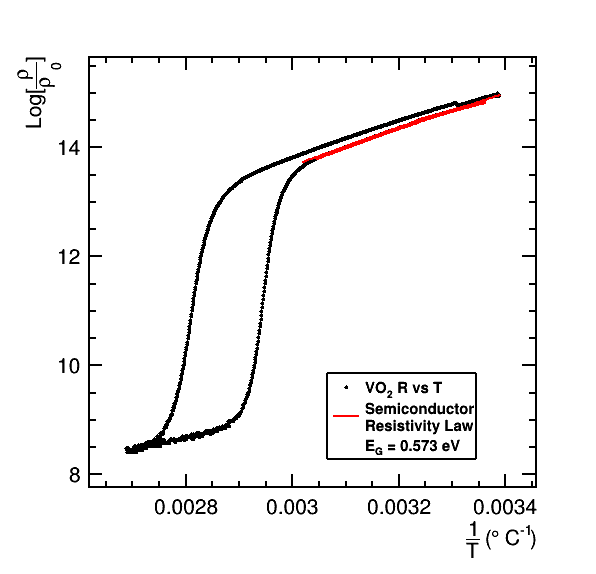
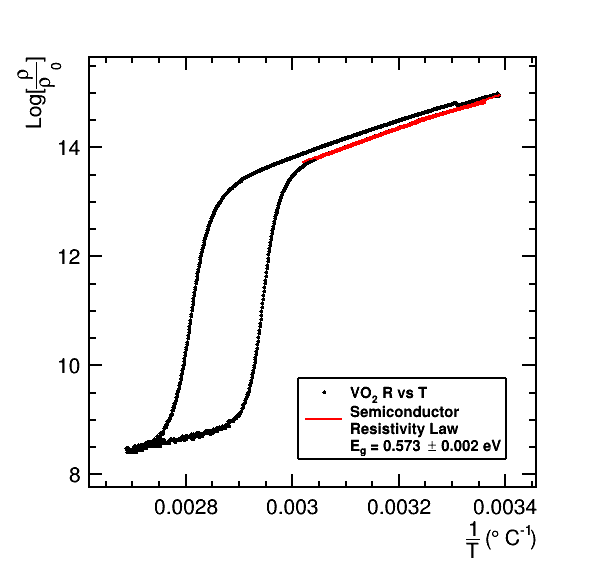
Update VO2 Measurements Section

Changed region(s): [[0.4832, 0.622, 0.8758, 0.7997]]

diff --git a/PhaseTransitions/report/PhaseTransitions.tex b/PhaseTransitions/report/PhaseTransitions.tex
@@ -90,7 +90,7 @@ Our experimental setup consists of three main components: a Princeton Applied Re
 
 The lock-in, essentially, consists of a frequency generator and a measuring input which is tuned only to that specific frequency. It is capable of generating a signal at a very specific frequency and phase and holding it there with great precision. The readout is then tuned to that frequency alone, but it can also be set to measure this frequency at any phase with respect to the original. Phasor theory tells us that the voltages across resistors  will be in-phase with the driving frequency, while voltages across capacitors will be $90^\circ$ out of phase. Thus, by looking at the in-phase and out-of-phase components of the input signal with the lock-in, we can determine the voltage across the resistive and capacitive portions of the system respectively. We began each measurement by 'tuning' the lock-in. We did this by hooking the output directly up to the input with a BNC cable. We then activated the autotune function, which seeks to maximize the in-phase signal. After this cycle completed, we manually adjusted the phase settings until the out of phase signal was as close to zero as we could obtain. We then hooked up the resistive or capacitive sample as detailed below.
 
-The samples are mounted in a sample chamber (shown in Figure \ref{fig:sample:inplace}) which consists of an insulated double-walled aluminum container with leads which run into it. Wires run through the insulated walls and terminated in double-prong connections to which the VO$_2$ and BaTiO$_3$ samples can be attached. These wires also run out of the sample chamber an have connections to which the lock-in can be attached to provide input. A heater is wrapped around the sample chamber which we directly control with a Staco Energy voltage source. A temperature sensor is also placed inside the sample chamber to monitor the internal temperature. Both the voltage from the lock-in and the temperature measurements are fed into a LabView program, which records the data in a format which can be read in by our analysis software ROOT.
+The samples are mounted in a sample chamber (shown in Figure \ref{fig:sample:inplace}) which consists of an insulated double-walled aluminum container with leads which run into it. Wires run through the insulated walls and terminated in double-prong connections to which the VO$_2$ and BaTiO$_3$ samples can be attached. These wires also run out of the sample chamber and have connections to which the lock-in can be attached to provide input. A heater is wrapped around the sample chamber which we directly control with a Staco Energy voltage source. A temperature sensor is also placed inside the sample chamber to monitor the internal temperature. Both the voltage from the lock-in and the temperature measurements are fed into a LabView program, which records the data in a format which can be read in by our analysis software ROOT.
 
 In previous years, a temperature controller was used which could ramp the temperature of the system up and down automatically, and at a much slower rate, but this system was not used for our experiments. As such, our ramps may have occurred at a faster speed than was ideal, and an artificial hysteresis-like effect may be introduced in our measurements due to a lag between measured temperature and sample temperature. 
 
@@ -185,13 +185,13 @@ This capacitance will add linearly with the capacitance of our samples, and is o
 
 \section{Measurements}
 \subsection{Metal-Insulator Transition in $VO_{2}$}
-We began with our study of the first order metal-insulator transition of $VO_{2}$. After tuning the lock in amplifier, we connected it to our sample to measure the voltage across the $VO_{2}$. We set the heater to increase the temperature of the sample chamber at a rate slow enough to allow for any time delay between the heating of the chamber and the heating of the sample itself. Since the sample is conductively heated, the temperature of the $VO_{2}$ itself may be lower than the temperature measured inside the chamber. Therefore, allowing the heater to increase the temperature at a slow enough rate ensures that the temperature read by the temperature sensor is consistent with that of the sample. As we increased the temperature we measured and recorded the temperature of and voltage across our $VO_{2}$ sample. The current in the circuit does not change so the variation in voltage as a function of temperature is due to the temperature dependence of the resistivity of the sample. To demonstrate this, we calculated the resistance ,$R_{VO_{2}}$, of the sample from the voltage, $V_{out}$, across it using Eq.~\ref{Eq:VtoR}.
+We began with our study of the first order metal-insulator transition of $VO_{2}$. After tuning the lock in amplifier, we connected it to our sample to measure the voltage across the $VO_{2}$. We set the heater to increase the temperature of the sample chamber at a rate slow enough to allow for any time delay between the heating of the chamber and the heating of the sample itself. Since the sample is conductively heated, the temperature of the $VO_{2}$ itself may be lower than the temperature measured inside the chamber. Therefore, allowing the heater to increase the temperature at a slow enough rate ensures that the temperature read by the temperature sensor is consistent with that of the sample. As we increased the temperature we measured and recorded the temperature of and voltage across our $VO_{2}$ sample. The current in the circuit does not change so the variation in voltage as a function of temperature is due to the temperature dependence of the resistivity of the sample. To demonstrate this, we calculated the resistance, $R_{VO_{2}}$, of the sample from the voltage, $V_{out}$, across it using Eq.~\ref{Eq:VtoR}.
 
 \begin{equation}\label{Eq:VtoR}
 R_{VO_{2}} = \frac{V_{out}}{I} = \frac{V_{out} (R_{Lim} + R_{Int})}{(V_{In} - V_{Out})} 
 \end{equation}
 
-where $V_{in}$ is the voltage output by the lock in amplifier, $R_{Int}$ is the internal resistance of the lock in amplifier, and $R_{Lim}$ is the limiting resistance in the circuit which we set as $R_{Lim} = 997 k\Omega$. For each value of voltage measured, we calculated the resistance of our sample and plotted this data as a function of temperature in Figure~\ref{Fig:RvT1}.
+where $V_{in}$ is the voltage output by the lock in amplifier, $R_{Int}$ is the internal resistance of the lock in amplifier, and $R_{Lim}$ is the limiting resistance in the circuit which we set as $R_{Lim} = 997 k\Omega$. For each value of voltage measured, we calculated the resistance of our sample and plotted this data as a function of temperature in Fig.~\ref{Fig:RvT1}.
 
 \begin{figure}[H]
 	\centering
@@ -200,7 +200,15 @@ where $V_{in}$ is the voltage output by the lock in amplifier, $R_{Int}$ is the 
 	\label{Fig:RvT1}
 \end{figure}
 
-The resistances of the sample are plotted on a logarithmic scale in order to better demonstrate at what temperature $V0_{2}$ exhibits a decrease in resistivity of a few orders of magnitude. 
+The resistances of the sample are plotted on a logarithmic scale in order to better demonstrate at what temperature $V0_{2}$ exhibits a decrease in resistivity of a few orders of magnitude. As can be observed in Fig.~\ref{Fig:RvT1}, this drastic change in resistance occurs along two different curves. One of these curves is the change in resistance as the temperature of the sample was heated and the other curve is the resistance as the sample cooled down. The splitting of these curves was due to hysteresis and means that critical temperature must be found through a more analytical method. To find the transition point, we identified the inflection points of each curve. These points (identified in Fig.~\ref{Fig:RvT1} by vertical blue lines) indicate the coercive temperatures of the transition, $T_{C} \pm T*$. As the temperature of the sample increased, the metal-insulator transition occurred at $T_{C} + T* = 82.5 ^\circ C$, whereas when we decreased the temperature of the sample, hysteresis caused the transition to occur at $T_{C} - T* = 66.5 ^\circ C$. The critical temperature $T_{C}$ of the phase transition occurred at the average of these two points, $T_{C} = 74.5^\circ C$. At this temperature, we observed the resistivity of $VO_{2}$ change from $~10^{6}$ in the semiconducting phase to $~5 \times 10^3$ in its metallic phase, demonstrating a change in resistivity of about 2.5 to 3 orders of magnitude.
+
+In addition to observing the transition point of the $VO_{2}$, we also observed its semiconducting properties at low temperatures, before it transitioned to its metallic phase. In this regime, the resistivity of the sample demonstrated the temperature dependence typical of a semiconductor, which behaves according to Eq.~\ref{Eq:SemiEGap}.
+
+\begin{equation}\label{Eq:SemiEGap}
+\rho = \rho_{0} e^{\frac{E_{g}}{2kT}}
+\end{equation}
+
+\noindent In this equation, $E_{g}$ is the energy gap, the energy difference between the valence band and conduction band of electrons. We tested that $VO_{2}$ exhibited semiconducting behavior at low temperatures by verifying the size of $E_{g}$. In order to calculate this value, we plotted the data on a $Log(\frac{\rho}{\rho_{0}})$ vs. $T^{-1}$ graph and fitted the data to a line. The data we collected is plotted as such in Fig.~\ref{Fig:RvT2}. Since we were testing the behavior of $VO_{2}$ in its semiconducting phase, we only fitted a line to the low temperature regime where it would exhibit such behavior.
 
 \begin{figure}[H]
 	\centering
@@ -208,6 +216,8 @@ The resistances of the sample are plotted on a logarithmic scale in order to bet
 	\caption{$Log(\rho)$ vs. $\frac{1}{T}$ Plot to Find Semiconductor Energy Gap, $E_{g}$}
 	\label{Fig:RvT2}
 \end{figure}
+
+\noindent The slope of this line is related to the energy gap as $E_{g} = 2k*(slope)$, where $k$ is Boltzmann's constant. We calculated the value of the band gap to be $E_{g} = 0.573 \pm 0.002 eV$, which we will see later is consistent with semiconducting behavior.
 
 \subsection{Ferroelectric Transition in $BaTiO_{3}$}
 

diff --git a/PhaseTransitions/makePlot_VvT_VO2.C b/PhaseTransitions/makePlot_VvT_VO2.C
@@ -99,11 +99,11 @@ int makePlot_VvT_VO2(
 
   cout << 2*8.62*(10**(-5.))*g_RvTEGap2->GetFunction("pol1")->GetParameter(1) << endl;
 
-  TLegend *leg2 = new TLegend(0.55, 0.2, 0.8, 0.35);
+  TLegend *leg2 = new TLegend(0.5, 0.2, 0.85, 0.34);
   leg2->SetNColumns(1);
   leg2->AddEntry(g_RvT, "VO_{2} R vs T", "p");
   leg2->AddEntry(g_RvTEGap2->GetFunction("pol1"), "#splitline{Semiconductor}{Resistivity Law}", "l");
-  leg2->AddEntry((TObject*)0 ,"E_{G} = 0.573 eV", "");
+  leg2->AddEntry((TObject*)0 ,"E_{g} = 0.573 #pm 0.002 eV", "");
   leg2->Draw();
   /*=====================*/
 
